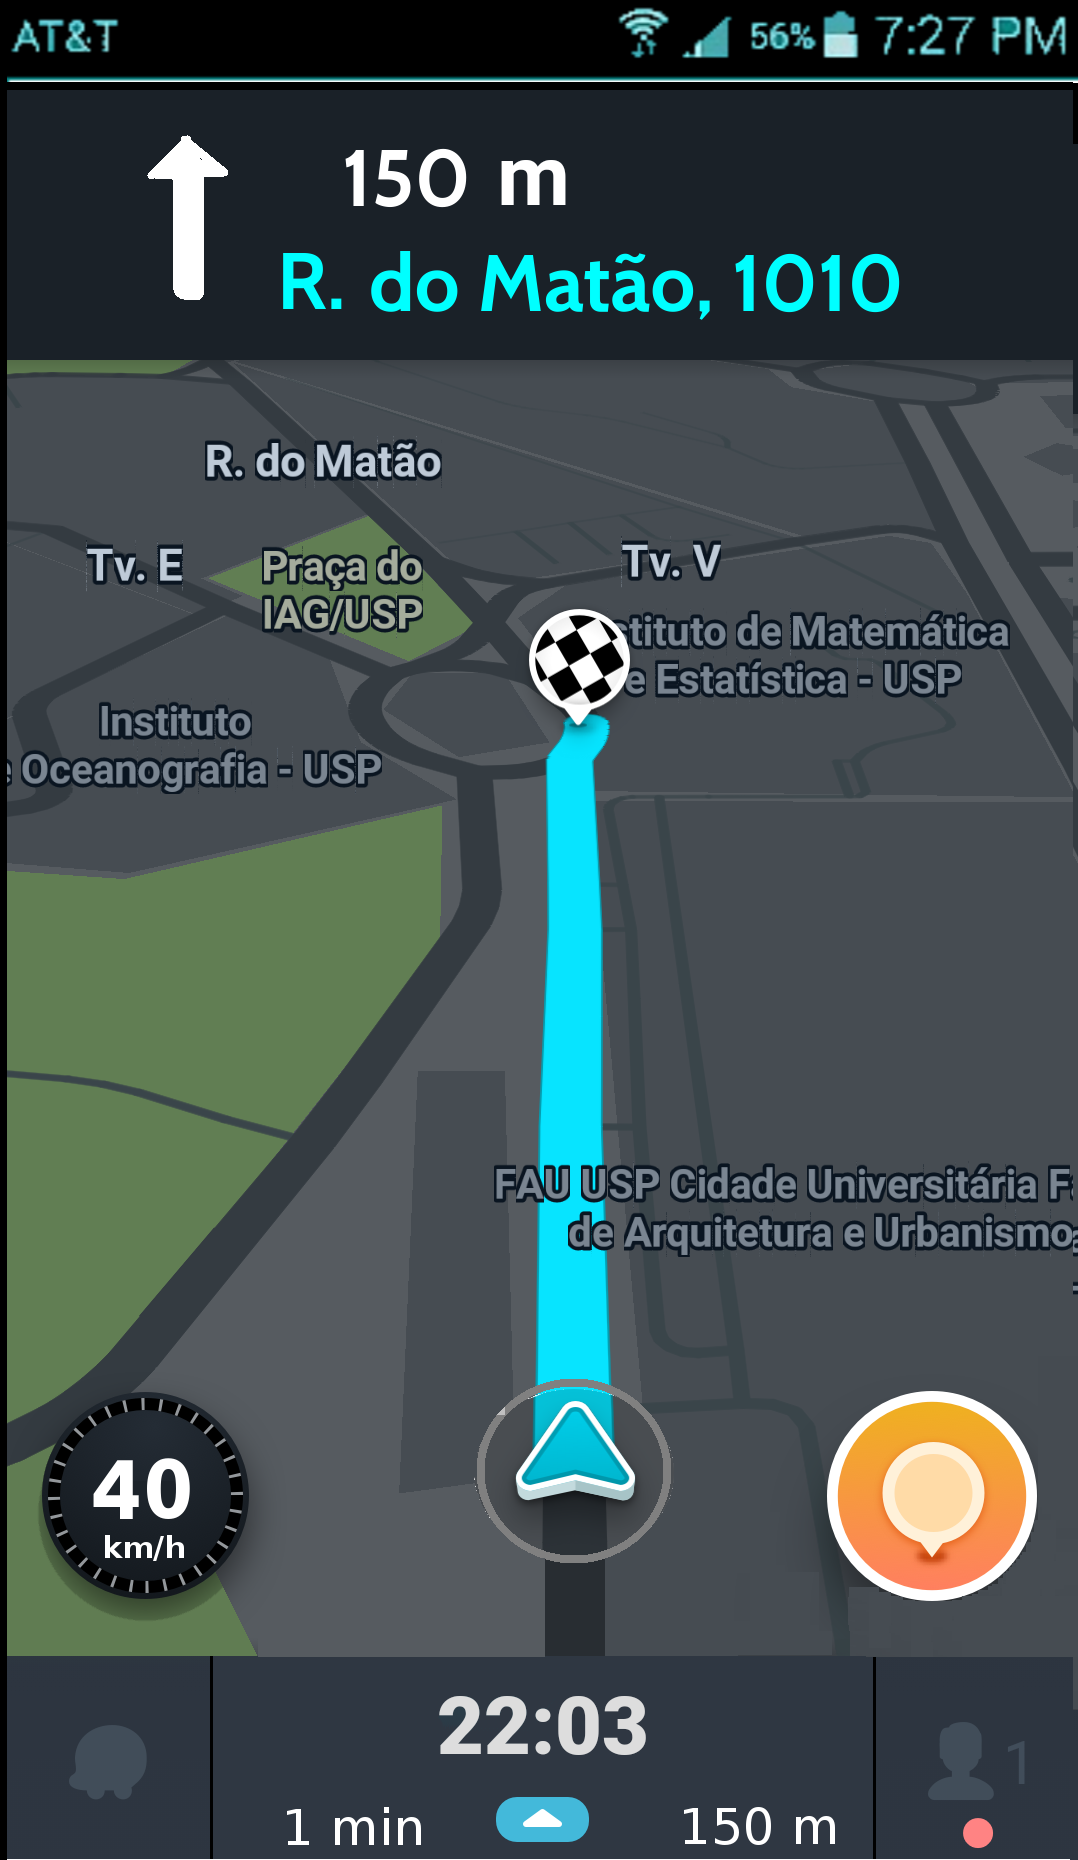
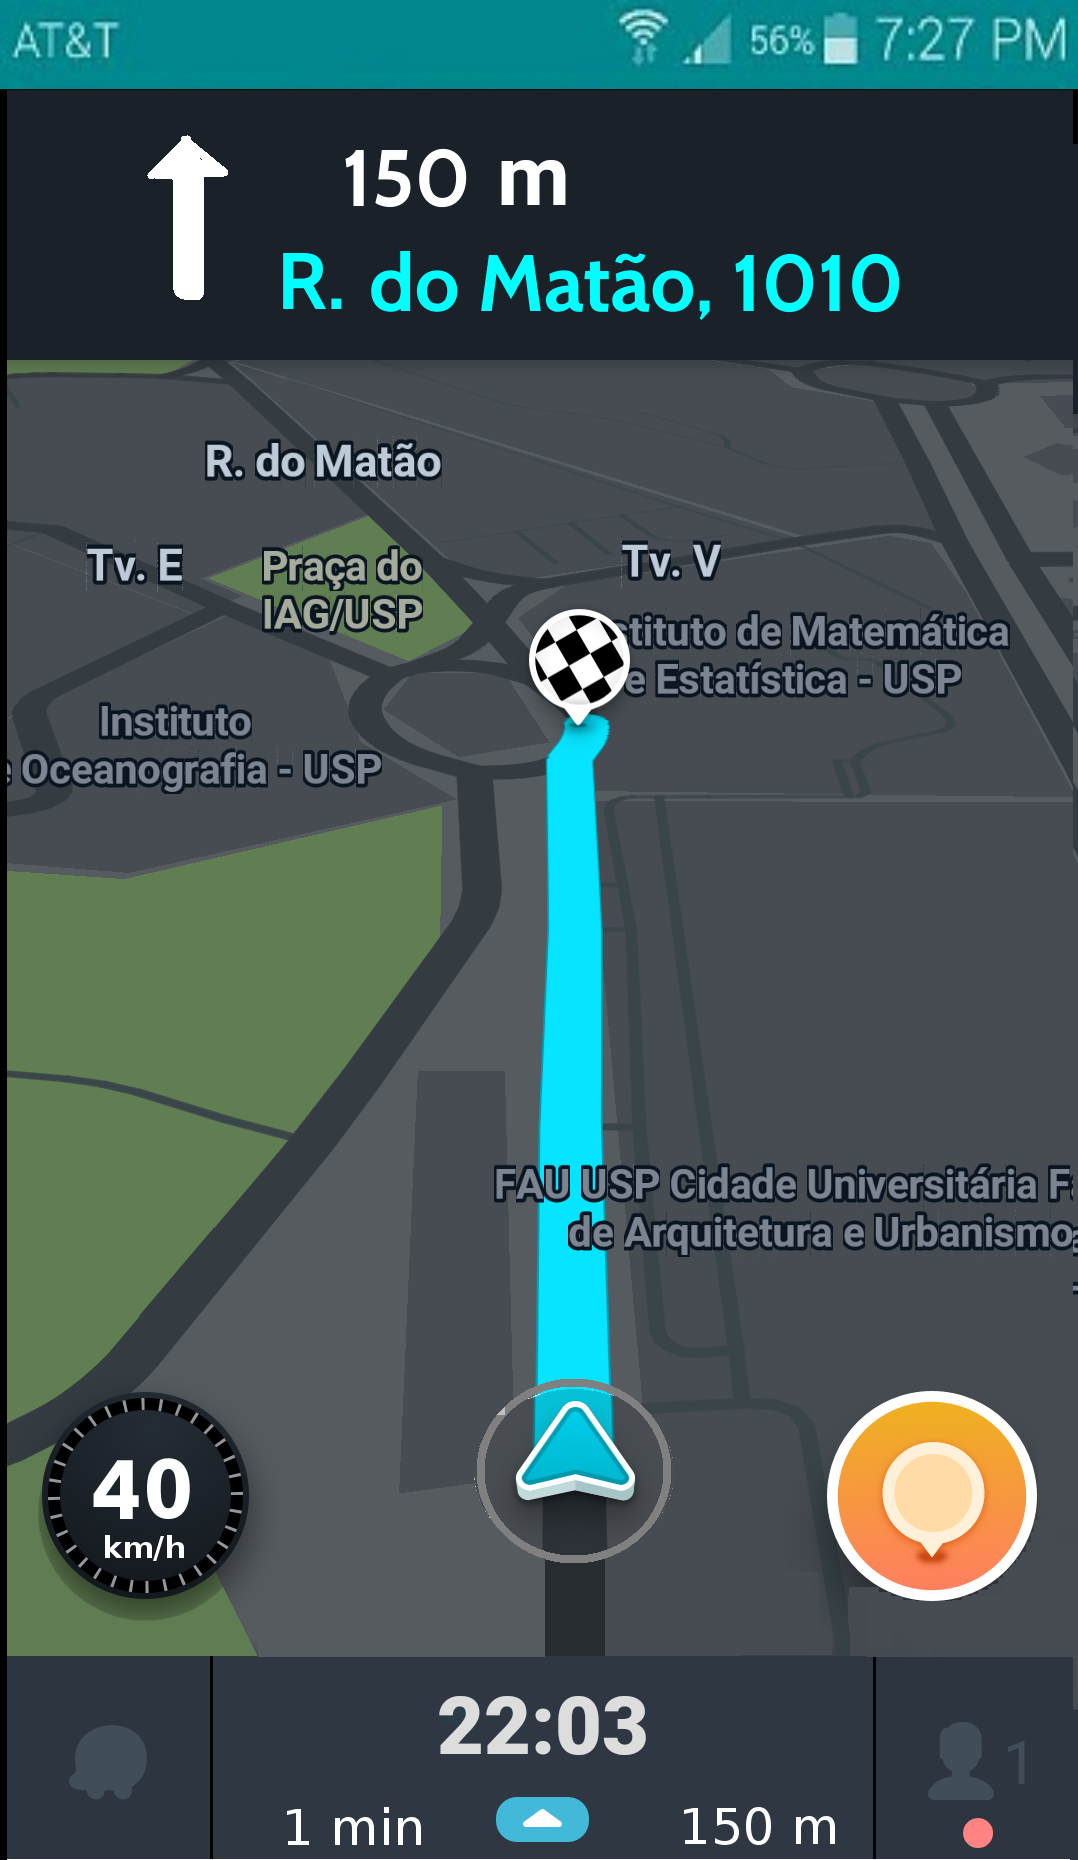
Adicionada tela estática do Waze.

Changed region(s): [[0.0, 0.0, 1.0, 0.0624]]

diff --git a/static/js/phone-ui.js b/static/js/phone-ui.js
@@ -7,6 +7,8 @@ var oldVisibleNotifHeight = 0;
 var notifOffset;
 var statusBarHeight;
 var notifTimer = null;
+var displayingWaze = false;
+
 
 function initUI() {
   
@@ -105,10 +107,12 @@ function drawNotificationBar() {
 
 function backButtonClicked() {
   hideLightHunterInterface();
+  closeWaze();
 }
 
 function homeButtonClicked() {
   hideLightHunterInterface();
+  closeWaze();
 }
 
 function setVisibleNotifHeight(height) {
@@ -141,15 +145,28 @@ function screenMouseDown(evt) {
       evt.offsetY - notifOffset <= visibleNotifHeight) {
     isDraggingNotif = true;
   }
-  if (!isDraggingNotif) {
+  
+  if (!isDraggingNotif && !displayingWaze) {
+    
+    // Light Hunter icon
     var lh = {'left': 0.01 * screenWidth, 'top': 0.61 * screenHeight,
           'width': 0.25 * screenWidth, 'height': 0.13 * screenHeight}
     if (evt.offsetX >= lh.left && evt.offsetX <= lh.left + lh.width &&
         evt.offsetY >= lh.top && evt.offsetY <= lh.top + lh.height) {
       showLightHunterInterface();
     }
+    
+    // Waze icon
+    var lh = {'left': 0.27 * screenWidth, 'top': 0.61 * screenHeight,
+          'width': 0.25 * screenWidth, 'height': 0.13 * screenHeight}
+    if (evt.offsetX >= lh.left && evt.offsetX <= lh.left + lh.width &&
+        evt.offsetY >= lh.top && evt.offsetY <= lh.top + lh.height) {
+      openWaze();
+    }
   }
 }
+
+
 
 function screenMouseMove(evt) {
   if (isDraggingNotif) {

diff --git a/static/js/phone.js b/static/js/phone.js
@@ -20,7 +20,7 @@ var screenWidth, screenHeight;
 var frameHeight, frameWidth;
 var statusBarHeight;
 
-var image;
+var image, wazeImage;
 
 
 function init() {
@@ -78,6 +78,10 @@ function init() {
   image.src = '/static/img/celular_com_app.png';
   image.onload = function() { clear(); }
   
+  // load Waze image
+  wazeImage = new Image();
+  wazeImage.src = '/static/img/waze.png';
+  
   // add event listeners
   $('#back-button')[0].addEventListener('mousedown', backButtonClicked);
   $('#home-button')[0].addEventListener('mousedown', homeButtonClicked);
@@ -96,10 +100,14 @@ function init() {
 }
 
 function clear() {
-  // background
-  ctx.drawImage(image, 0, 0, screenWidth, screenHeight);
-  // clock
-  updateHomeScreenClock();
+  if (!displayingWaze) {
+    // background
+    ctx.drawImage(image, 0, 0, screenWidth, screenHeight);
+    // clock
+    updateHomeScreenClock();
+  } else {
+    ctx.drawImage(wazeImage, 0, 0, screenWidth, screenHeight);
+  }
 }
 
 

diff --git a/static/js/phone-io.js b/static/js/phone-io.js
@@ -8,6 +8,7 @@ var soundEnabled = false;
 var maskEnabled = false;
 var volume = 1;
 
+
 var masks = {
   't': null,
   'r': null,
@@ -136,6 +137,16 @@ function showLightHunterInterface() {
 
 function hideLightHunterInterface() {
   $('#light-hunter-interface').css('z-index', -1);
+}
+
+function openWaze() {
+  displayingWaze = true;
+}
+
+function closeWaze() {
+  if (displayingWaze) {
+    displayingWaze = false;
+  }
 }
 
 $(document).ready(initIO);
